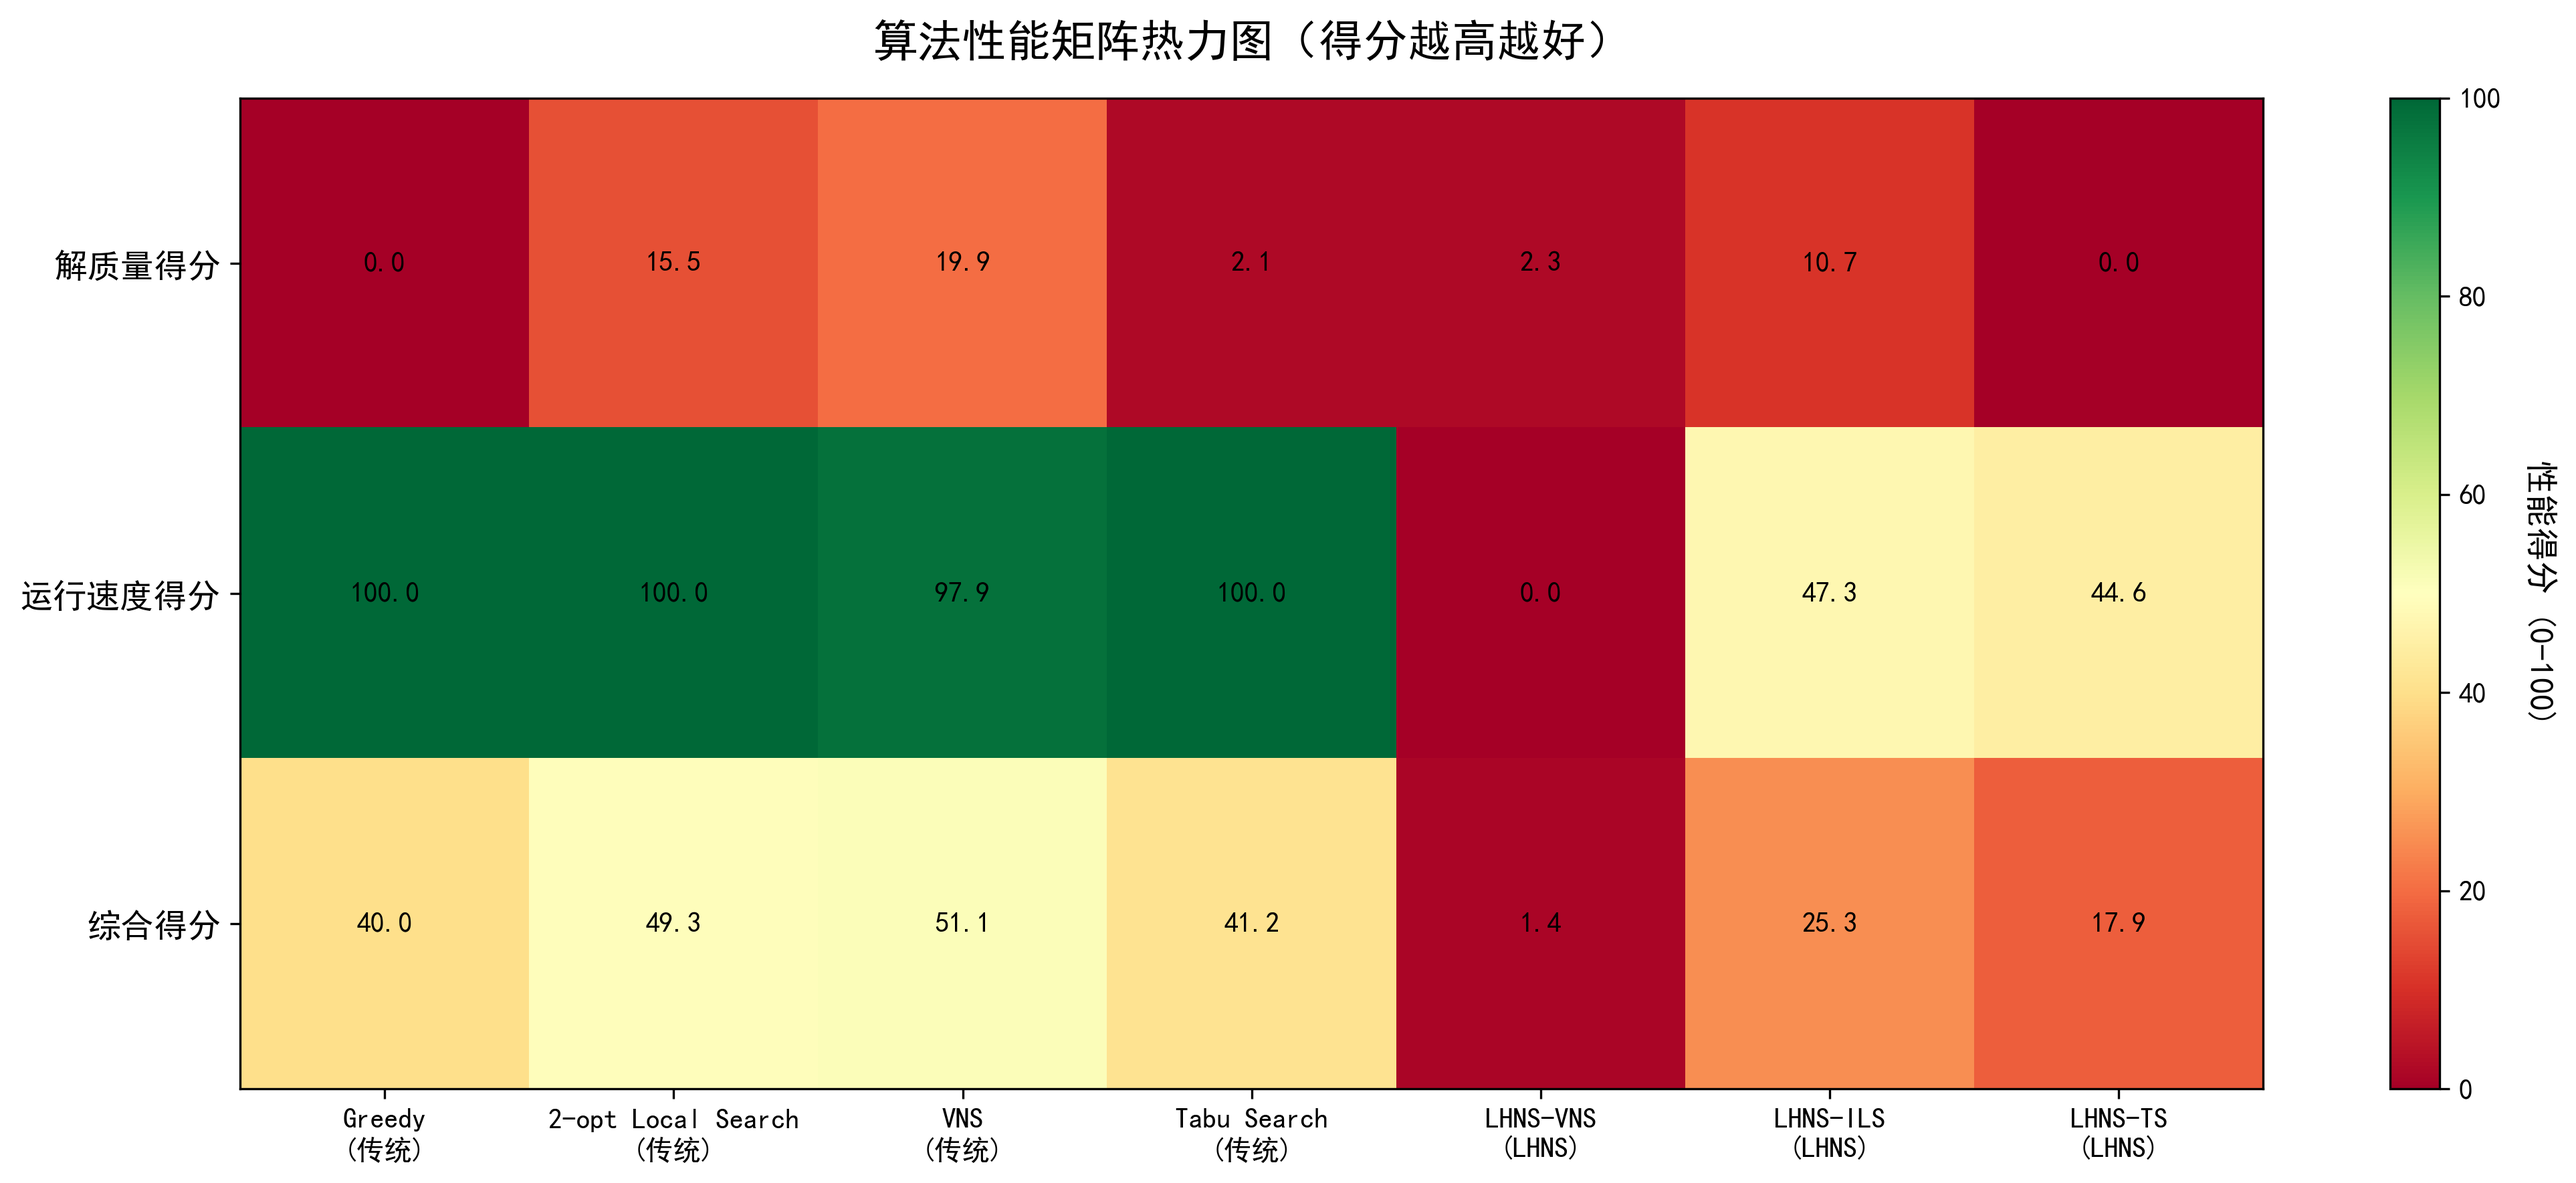
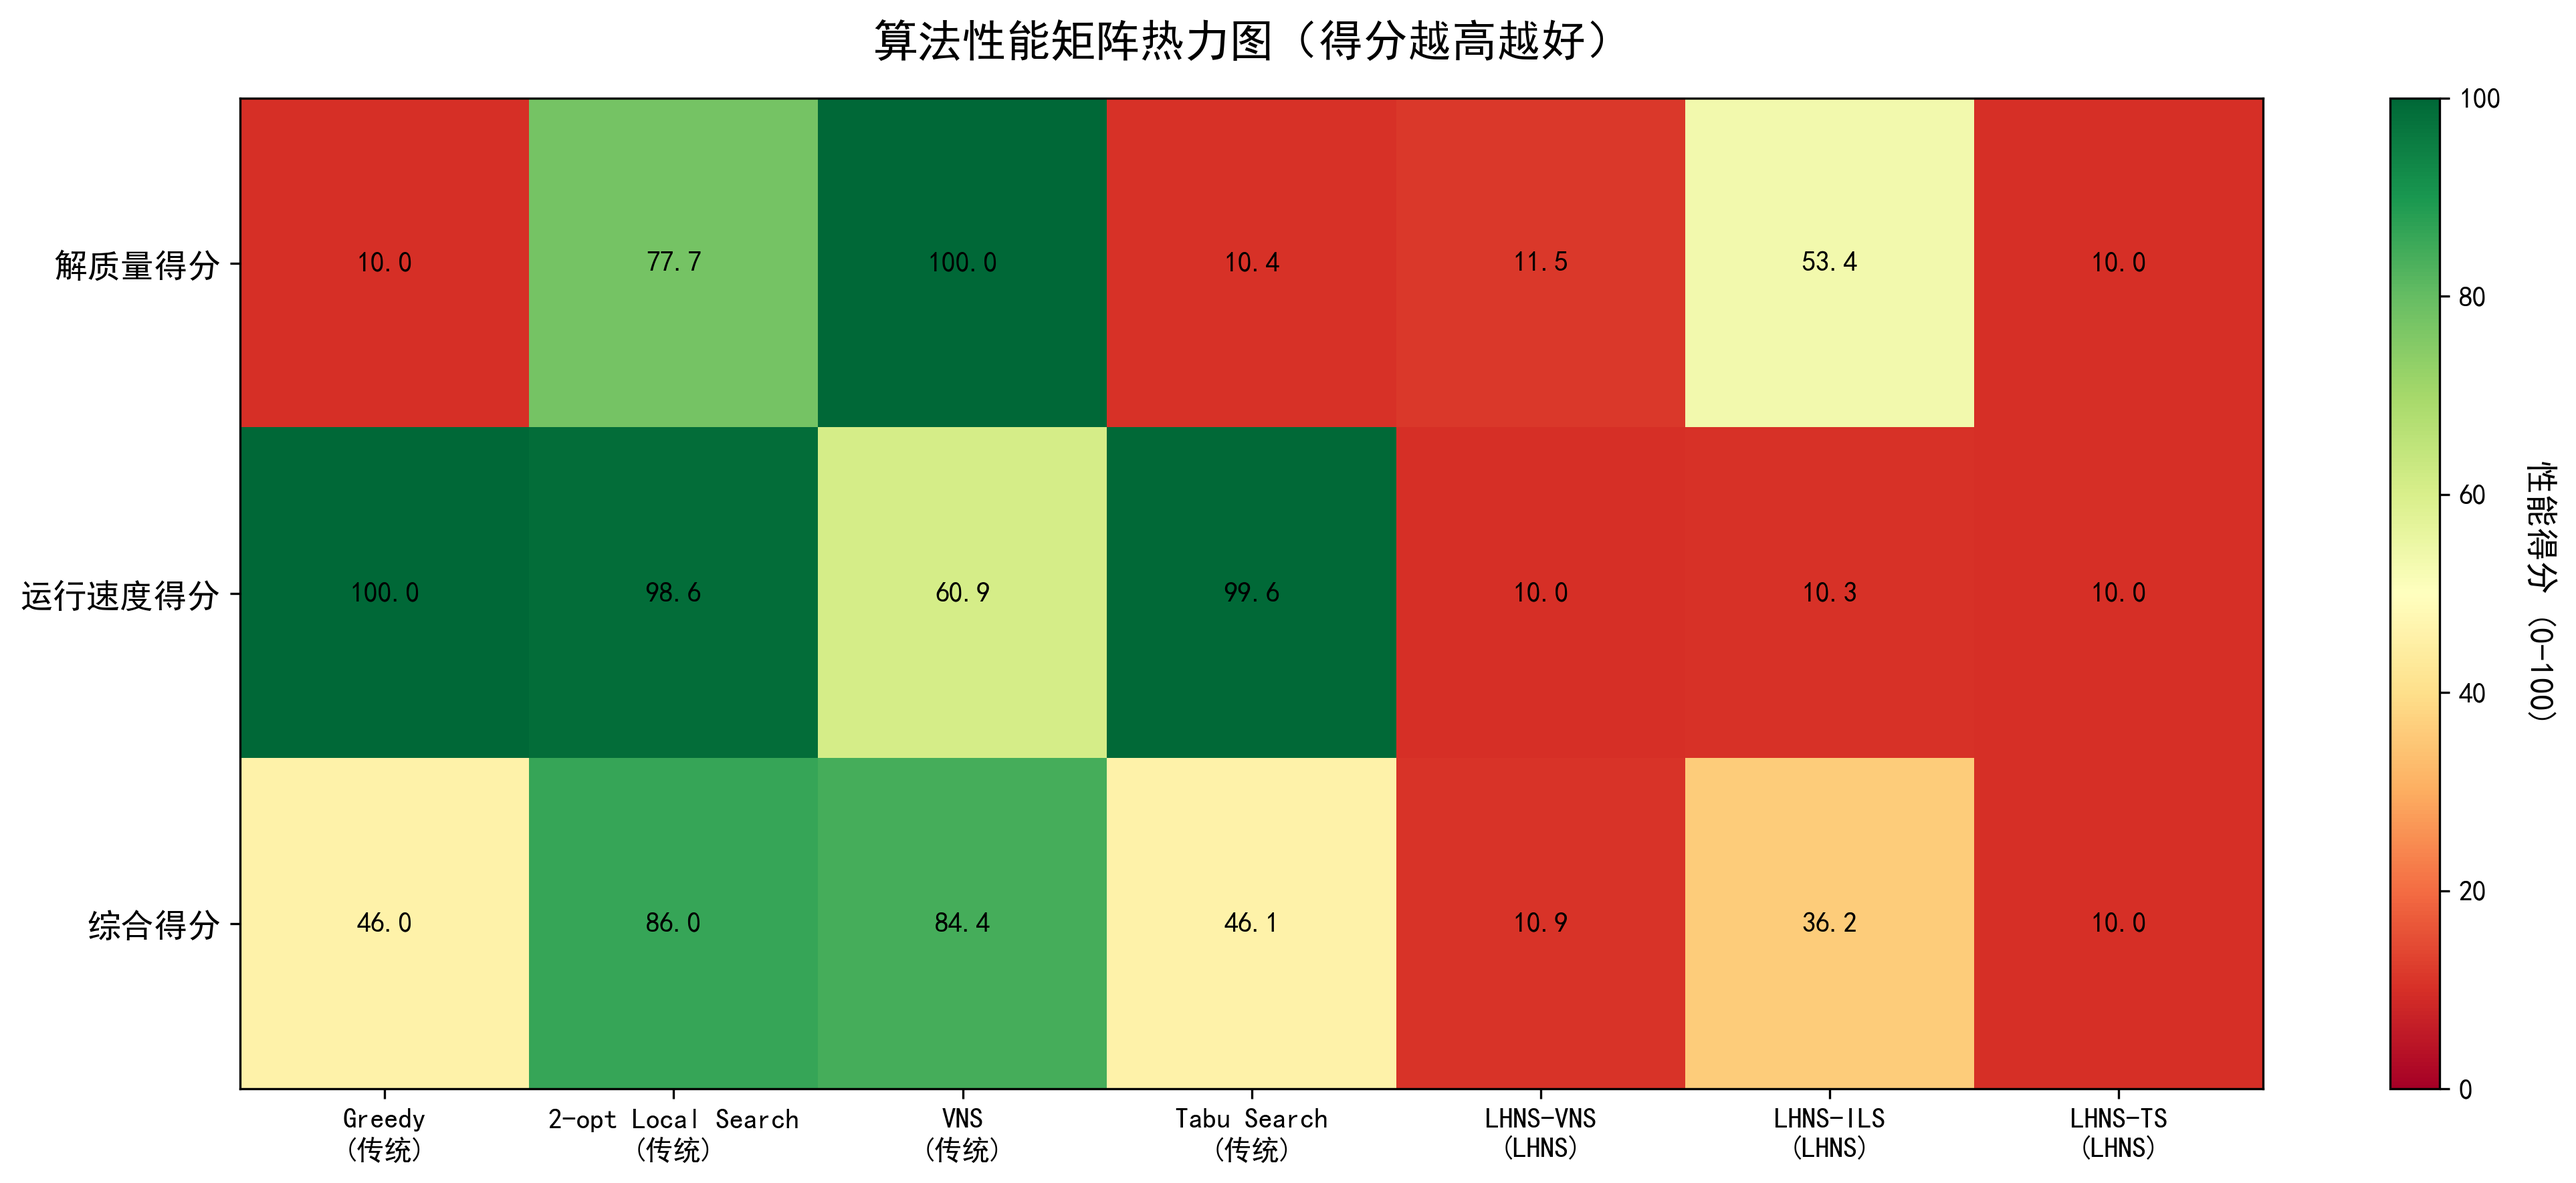
Initial2

diff --git a/src/lhns/methods/lhns/lhns_prompt.py b/src/lhns/methods/lhns/lhns_prompt.py
@@ -138,27 +138,43 @@ The description must be inside a brace. Next, implement it in Python as a functi
         return "Modify the provided algorithm to improve its performance, where you can determine the degree of modification needed."
 
     def delete_lines(self, code, number_of_delete):
-        lines = copy.deepcopy(code.split('\n'))
-        to_be_deleted_lines_index = []  # "#" and selected lines
-        content_lines_index = []  # not "#", "" and import and def
+        """
+        参数:
+            code: 原始代码字符串
+            number_of_delete: 删除比例（0-1之间的浮点数）或具体删除行数
 
+        返回:
+            new_code: 删除部分行后的代码
+            number_of_delete: 实际删除的行数
+        """
+        lines = copy.deepcopy(code.split('\n'))
+        to_be_deleted_lines_index = []  # 待删除的行索引：包括注释行和随机选择的内容行
+        content_lines_index = []  # 有效内容行索引：排除函数定义、import语句、空行和注释
+
+        # 遍历所有代码行，分类标记
         for index, line in enumerate(lines):
             stripped_line = line.strip()
+            # 跳过函数定义、import语句和空行（这些是代码结构的关键部分）
             if stripped_line.startswith('def ') or stripped_line.startswith('import') or stripped_line == "":
                 continue
             if stripped_line.startswith('#'):
+                # 注释行标记为待删除
                 to_be_deleted_lines_index.append(index)
             else:
                 if "#" in line:
                     line.split('#', 1)[0].rstrip()
+                # 记录有效内容行索引
                 content_lines_index.append(index)
 
-        number_of_delete = np.ceil(number_of_delete * len(content_lines_index)).astype(int)  # when number_of_delete is a cofficient
+        # 根据删除比例计算实际删除的行数
+        number_of_delete = np.ceil(number_of_delete * len(content_lines_index)).astype(int)
+        # 从有效内容行中随机选择要删除的行
         content_delete_lines = random.choices(content_lines_index, k=min([number_of_delete, len(content_lines_index)]))
         if len(content_delete_lines) == 0:
             raise Exception("No content lines to delete")
         to_be_deleted_lines_index.extend(content_delete_lines)
 
+        # 重构新代码，保留未被标记删除的行
         new_code = ""
         for indexI, i in enumerate(lines):
             if indexI not in to_be_deleted_lines_index:
@@ -207,17 +223,27 @@ The description must be inside a brace. Next, implement it in Python as a functi
         return opt
 
     def get_prompt_rr(self, indiv1, number_of_delete):
+        """
+        参数:
+            indiv1: 当前个体（包含算法描述和代码）
+            number_of_delete: 删除比例（0-1）
+
+        返回:
+            prompt_content: 完整的LLM提示词
+        """
+        # 破坏阶段：删除部分代码行
         deleted_code, deleted_lines = self.delete_lines(indiv1['code'], number_of_delete)
 
+        # 构造提示词，包含：任务描述、原算法描述、破坏后的代码、重构指令
         prompt_content = self.prompt_task + "\n" \
-"I have one algorithm with its code as follows. \
-Algorithm description: " + indiv1['algorithm'] + "\n \
-Code:\n \
-" + deleted_code + "\n" \
-+ self.get_rr_opts(deleted_lines) + "\n\
-First, describe your new algorithm and main steps in one sentence. \
-The description must be inside a brace. Next, implement it in Python as a function named \
-" + self.prompt_func_name + ". This function should accept " + str(len(self.prompt_func_inputs)) + " input(s): " \
+        "I have one algorithm with its code as follows. \
+        Algorithm description: " + indiv1['algorithm'] + "\n \
+        Code:\n \
+        " + deleted_code + "\n" \
+        + self.get_rr_opts(deleted_lines) + "\n\
+        First, describe your new algorithm and main steps in one sentence. \
+        The description must be inside a brace. Next, implement it in Python as a function named \
+        " + self.prompt_func_name + ". This function should accept " + str(len(self.prompt_func_inputs)) + " input(s): " \
                          + self.joined_inputs + ". The function should return " + str(
             len(self.prompt_func_outputs)) + " output(s): " \
                          + self.joined_outputs + ". " + self.prompt_inout_inf + " " \
@@ -263,15 +289,28 @@ The description must be inside a brace. Next, implement it in Python as a functi
         return [code_all, algorithm]
 
     def rr(self, indiv1, number_of_delete):
+        """
 
+        参数:
+            indiv1: 当前个体（包含算法描述和代码）
+            number_of_delete: 删除比例，控制破坏程度（0-1之间）
+
+        返回:
+            code_all: LLM生成的新算法代码
+            algorithm: LLM生成的新算法描述
+            code_features: 新生成的代码特征（与原代码的差异行）
+        """
+        # 生成包含破坏代码的提示词
         prompt_content = self.get_prompt_rr(indiv1, number_of_delete)
 
         if self.debug_mode:
-            print("\n >>> check prompt for creating algorithm using [ m2 ] : \n", prompt_content)
+            print("\n >>> check prompt for creating algorithm using [ rr ] : \n", prompt_content)
             print(">>> Press 'Enter' to continue")
             input()
 
+        # 让LLM基于破坏后的代码重新生成完整算法
         [code_all, algorithm] = self._get_alg(prompt_content)
+        # 提取LLM新生成的代码行（与原代码的差异）
         code_features = self._find_llm_generate_lines(indiv1['code'], code_all)
 
         if self.debug_mode:

diff --git a/src/lhns/methods/lhns/lhns.py b/src/lhns/methods/lhns/lhns.py
@@ -57,24 +57,42 @@ class LHNS:
         random.seed(2024)
 
     def simulated_annealing(self, next_ind, curr_ind, rounds, cooling_rate, ils_count):
+        """
+        模拟退火算法接受准则
+        参数:
+            next_ind: 新生成的候选解个体
+            curr_ind: 当前解个体
+            rounds: 当前迭代轮次
+            cooling_rate: 降温速率
+            ils_count: 连续未接受的次数计数器
 
+        返回:
+            accept: 是否接受新解
+            ils_count: 更新后的计数器值
+        """
         new_obj = next_ind['objective']
+        # 计算当前温度，随着迭代进行温度线性下降
         temperature = cooling_rate * (1 - (rounds - 1) / self.paras.iterations)
 
+        # 如果新解的目标函数值为空，则拒绝接受
         if new_obj is None:
             ils_count += 1
             return False, ils_count
 
-        # for minimization
+        # 针对最小化问题的接受准则
         if new_obj >= curr_ind['objective']:
+            # 新解更差时，计算Metropolis准则的接受概率
+            # temp_value = ΔE / T，其中ΔE为目标函数值的差值
             temp_value = ((curr_ind['objective'] - new_obj) / (curr_ind['objective'] + 1E-10)) / temperature
 
+            # 以概率 exp(temp_value) 接受更差的解，实现跳出局部最优
             if np.random.rand() < np.exp(temp_value):
                 accept = True
             else:
                 accept = False
             ils_count += 1
         else:
+            # 新解更优时，直接接受并重置计数器
             accept = True
             ils_count = 0
 

diff --git a/experiment_modules/visualizer.py b/experiment_modules/visualizer.py
@@ -284,11 +284,24 @@ class ExperimentVisualizer:
             time_scores.append(result.get('time', 0))
 
         # 归一化到0-100分制（越高越好）
+        # 使用最小-最大归一化，保证最差算法也有至少10分
         max_quality = max(quality_scores) if quality_scores else 1
-        max_time = max(time_scores) if time_scores else 1
+        min_quality = min(quality_scores) if quality_scores else 0
 
-        quality_normalized = [100 * (1 - q/max_quality) for q in quality_scores]
-        time_normalized = [100 * (1 - t/max_time) for t in time_scores]
+        # 质量得分：值越小越好，归一化后分数越高
+        quality_normalized = [
+            max(10, 100 * (max_quality - q) / (max_quality - min_quality + 1e-10))
+            for q in quality_scores
+        ]
+
+        # 时间得分：使用对数尺度处理极端差异（传统算法毫秒级 vs LHNS分钟级）
+        # 保证最慢算法至少10分
+        time_log = [np.log(t + 1) for t in time_scores]
+        max_log = max(time_log) if time_log else 1
+        time_normalized = [
+            max(10, 100 * (1 - tlog/max_log))
+            for tlog in time_log
+        ]
 
         # 计算综合得分
         综合得分 = [(q * 0.6 + t * 0.4) for q, t in zip(quality_normalized, time_normalized)]
